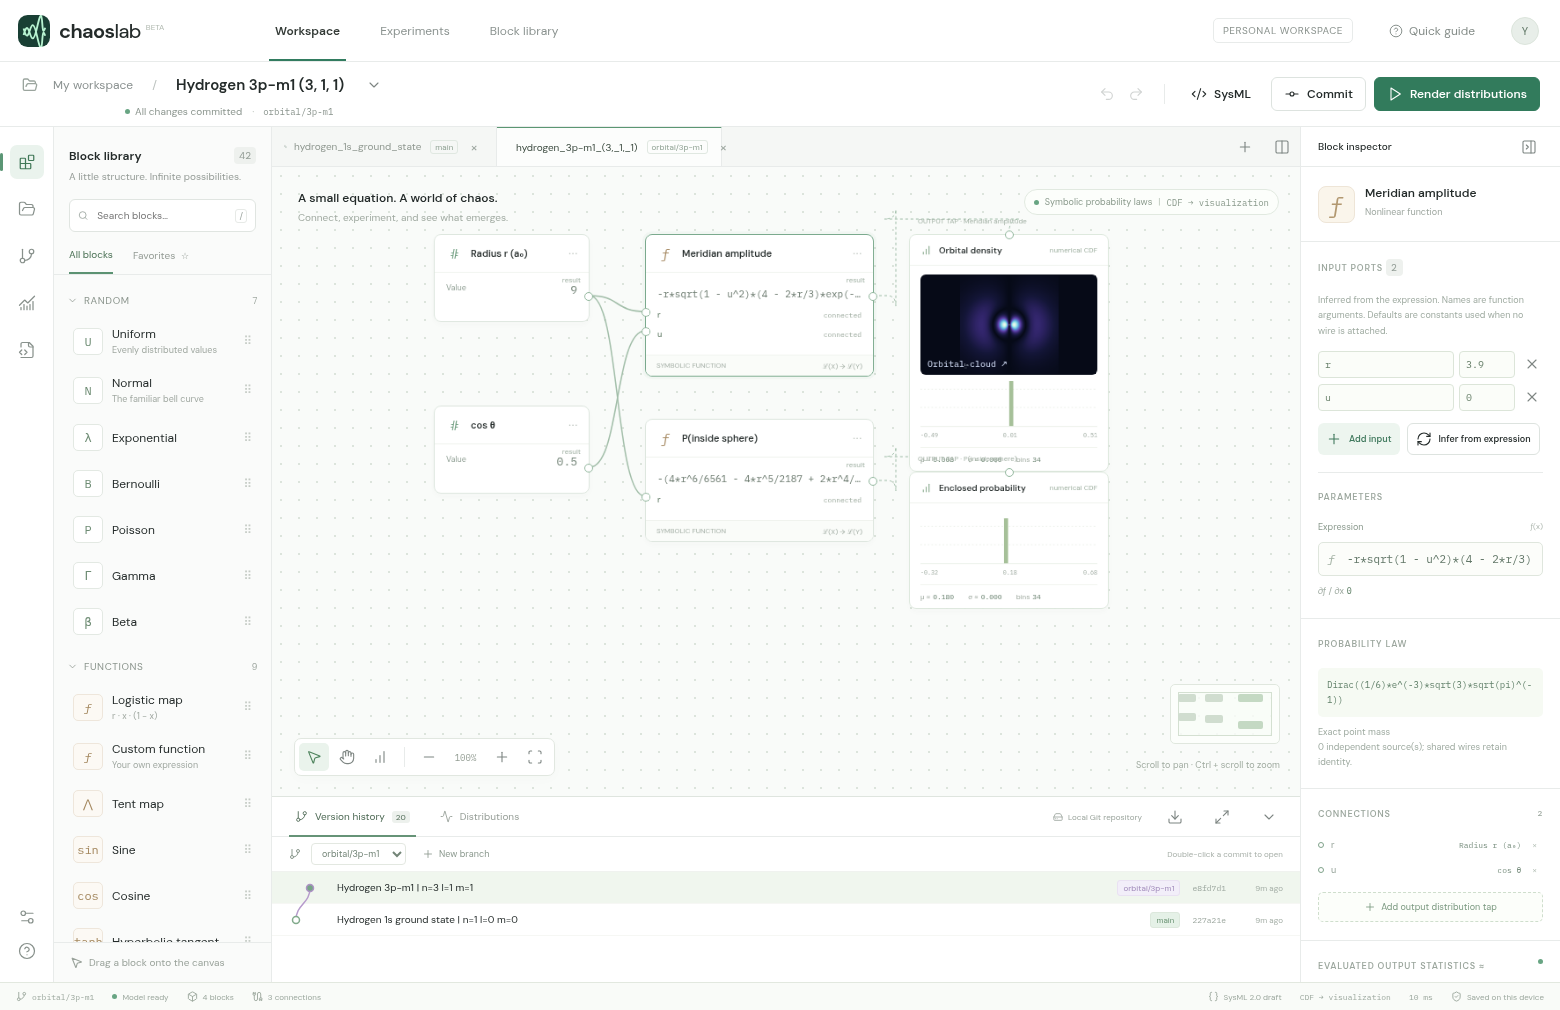
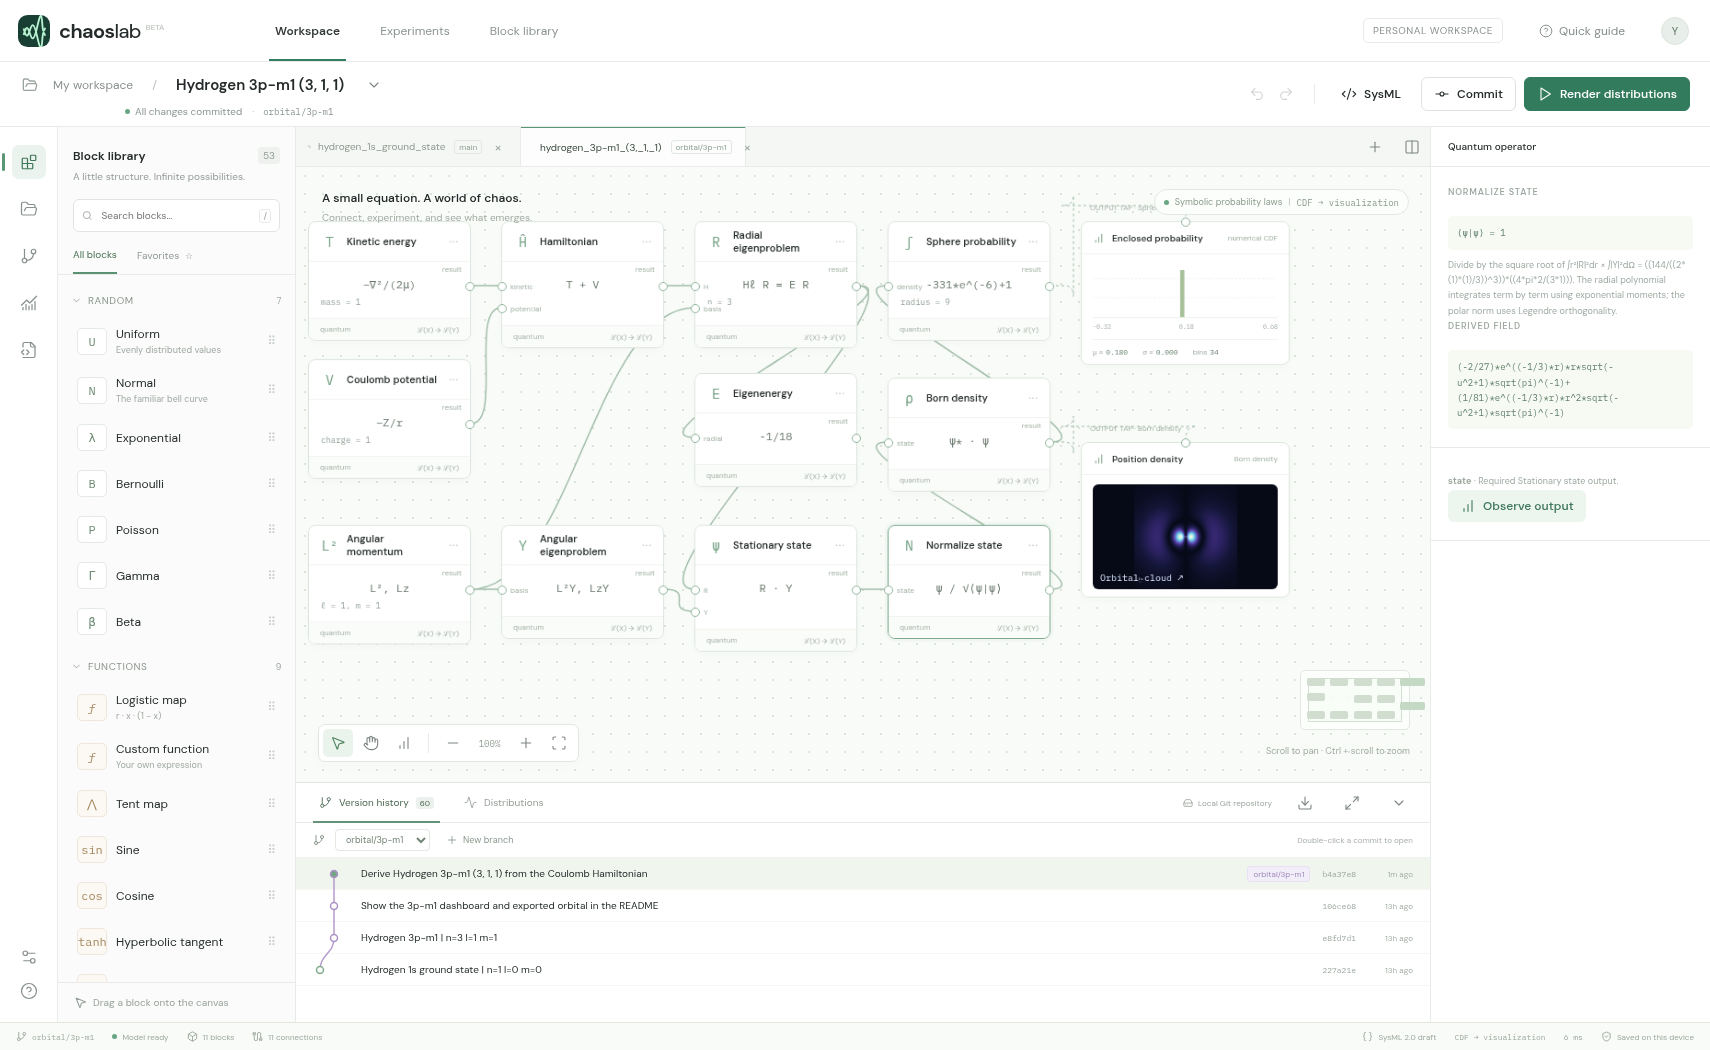
Show the derived state and operator graph for orbital/3p-m1

diff --git a/README.md b/README.md
@@ -4,6 +4,8 @@ Open **Version history** in Chaos Lab to explore the 20 hydrogen designs in this
 
 ## Hydrogen 3p (n = 3, ℓ = 1, m = 1)
 
+The connected Hamiltonian and eigenstate solvers give $E=-1/18$ Hartree for this state.
+
 ![Chaos Lab dashboard with the 3p model, m = 1, open in version history](dashboard.png)
 
 Radial nodes: 1. Polar nodes: 0. Plot half-width: 18 Bohr radii.
@@ -22,7 +24,7 @@ cd hydrogen_wavefunction
 python studio.py
 ```
 
-On Windows you can use `py studio.py`. On Linux you can use `python3 studio.py`. The first launch downloads the pinned Chaos Lab browser build. Double-click a commit to open it in a tab. Open another and use **Split view** to compare them. **Orbital cloud ↗** opens the spatial plots. The launcher reads the Git objects from your clone, including origin branches. Run `git fetch origin` and restart the launcher to load new remote branches.
+On Windows you can use `py studio.py`. On Linux you can use `python3 studio.py`. The first launch downloads the pinned Chaos Lab browser build. Double-click a commit to open it in a tab. Open another and use **Split view** to compare them. **Orbital cloud ↗** opens the spatial plots. The launcher reads the Git objects from your clone, including origin branches. For an existing clone, update the checked-out branch with `git pull --ff-only`, fetch the other branches with `git fetch origin`, and restart the launcher. Double-click the latest commit for the design you want to explore.
 
 To compare states with the same radial law, open `orbital/2p-m0` and `orbital/2p-m1`. At the same radius their enclosed-probability probes agree. The first slice is dark on the equatorial plane, while the second is dark along the polar axis.
 
@@ -32,7 +34,17 @@ To compare states with the same radial law, open `orbital/2p-m0` and `orbital/2p
 
 Branch names encode `(n, ℓ, m)`. For example, `orbital/3d-m1` is `(3,2,1)`. Each snapshot includes the editable graph, its compiled symbolic representation, and its SysML text. Each excited-state branch also contains a reference cross-section.
 
-Coordinates are in Bohr radii. These are normalized fixed-proton, nonrelativistic spatial eigenstates in the complex spherical-harmonic basis. For a fixed m the azimuthal phase is exp(i m φ), so probability density is axially symmetric. The graph evaluates the real meridian amplitude at φ = 0 using radius r and u = cos θ. Its square is probability per unit volume. The sphere probe integrates the radial Born law. The field tap sweeps the same amplitude expression for the x–z slice and its projected detections. Detections are drawn for display from a numerical grid of the final density including the r² volume factor. Brightness and plotting windows are scaled per orbital.
+## How the graph derives this orbital
+
+1. **Kinetic energy** and **Coulomb potential** supply the relative-coordinate operators in atomic units. Their wires feed **Hamiltonian**, which constructs $H=-\nabla^2/(2\mu)-Z/r$. The default is a fixed proton, $Z=\mu=1$.
+2. **Angular momentum** selects the joint eigenvalues of $L^2$ and $L_z$. **Radial eigenproblem** uses that angular eigenvalue in the centrifugal term. Regularity at the origin, decay at infinity, and radial-series termination give the polynomial and energy. **Angular eigenproblem** constructs the polar polynomial by Rodrigues differentiation and includes the phase $e^{im\phi}$.
+3. **Stationary state** multiplies the separated basis functions. **Normalize state** computes their norm with the spherical volume measure. **Born density** takes the squared modulus of the normalized state. **Sphere probability** integrates that density to the probe radius.
+4. Select a block to inspect its equation and derivation. Change **Nuclear charge** from 1 to 2. The energy becomes four times more negative and the orbital contracts by a factor of two. The plot rescales with the orbital, so use its Bohr-radius scale bar to see the change.
+
+The central slice evaluates the final density in the x–z plane. Projected detections sample the final density on a finite radial and angular grid with the spherical volume factor. Coordinates use Bohr radii and energy uses Hartree.
+
+The branch stores the operator graph in `model.json`, its derived fields and scalar laws in `model.symbolic.json`, and the block connections in `model.sysml`. With SymPy installed, run `python tools/verify_state.py` in a checkout of this branch to check the eigenvalue equations, normalization, radial reference solution and sphere integral.
+
 
 | n | ℓ | m | Design branch |
 |---|---|---|---|
